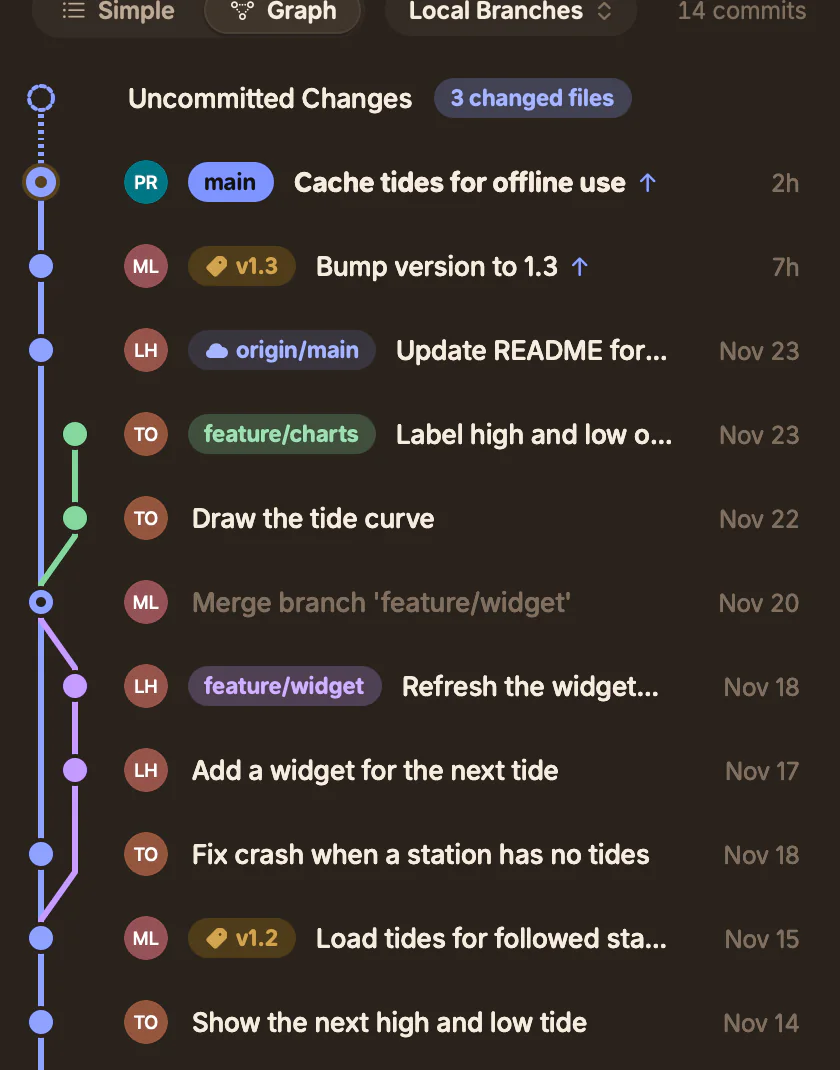
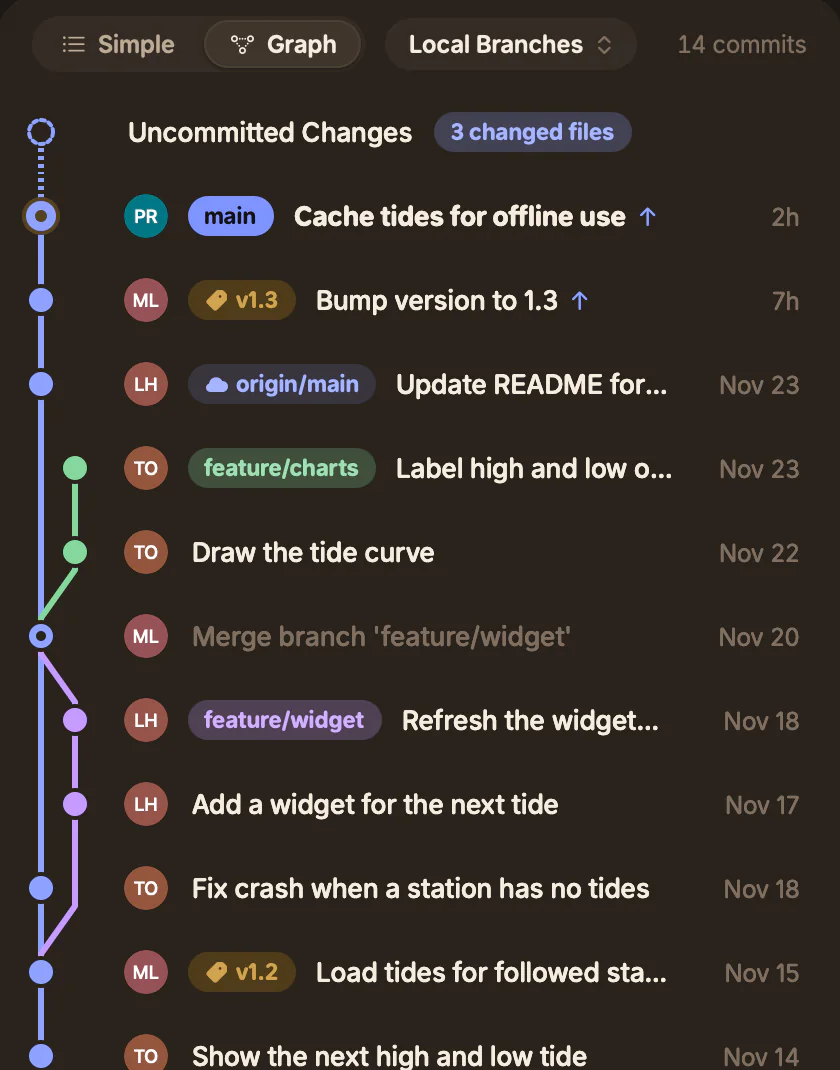
Fix graph screenshots and key styling
Adjust the graph screenshot crop to include the Simple/Graph switch and regenerate the image assets. Refine keyboard key typography to use the inherited font with a larger, semibold style.

diff --git a/web/static/site.css b/web/static/site.css
@@ -147,8 +147,7 @@ figure {
   margin: 0;
 }
 
-code,
-kbd {
+code {
   font-family: var(--mono);
   font-size: 0.86em;
 }
@@ -676,7 +675,9 @@ kbd {
   background: var(--bg-sunken);
   box-shadow: inset 0 0 0 1px var(--hairline-strong);
   color: var(--ink-2);
-  font-size: 13px;
+  font-family: inherit;
+  font-size: 14px;
+  font-weight: 600;
   white-space: nowrap;
 }
 
